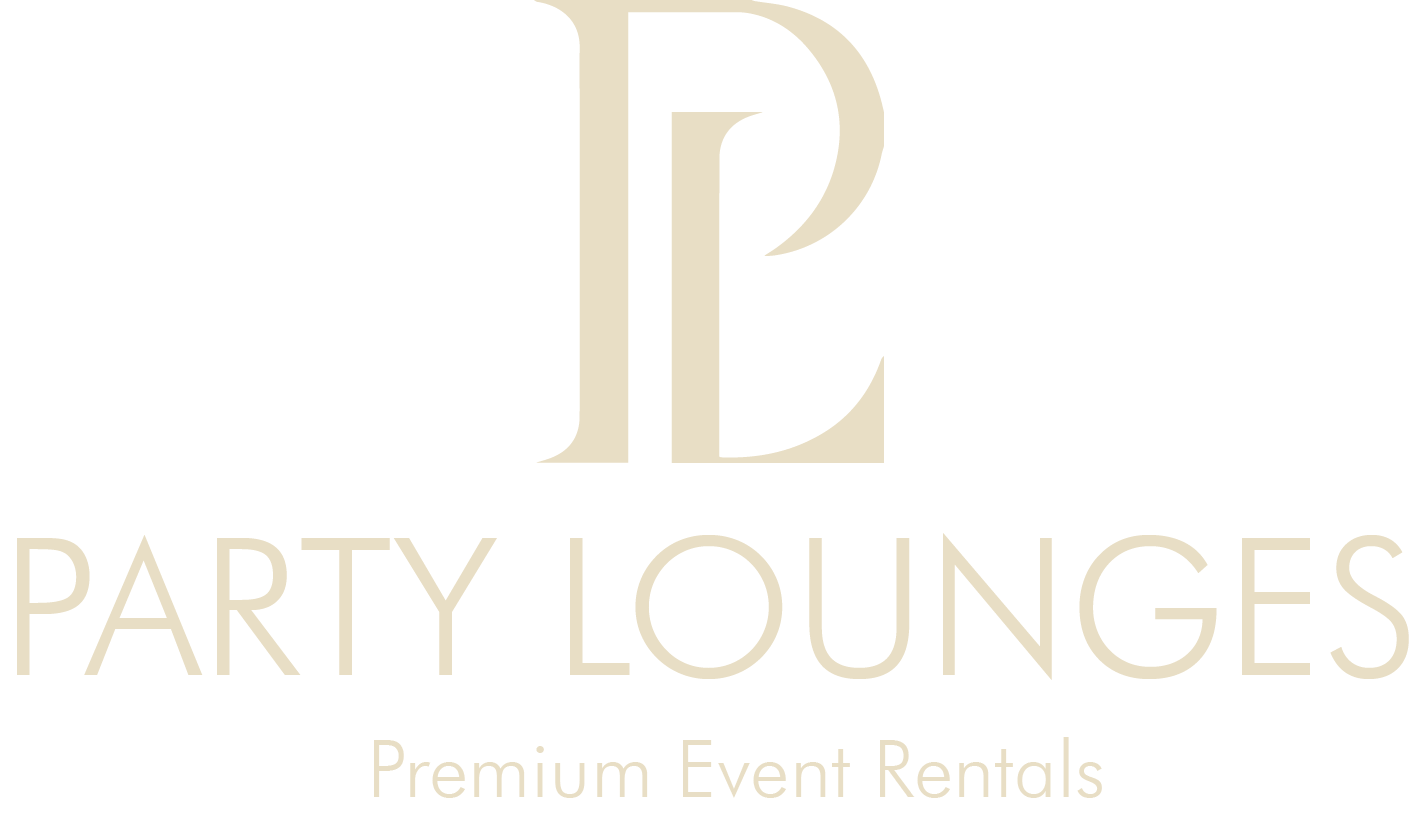
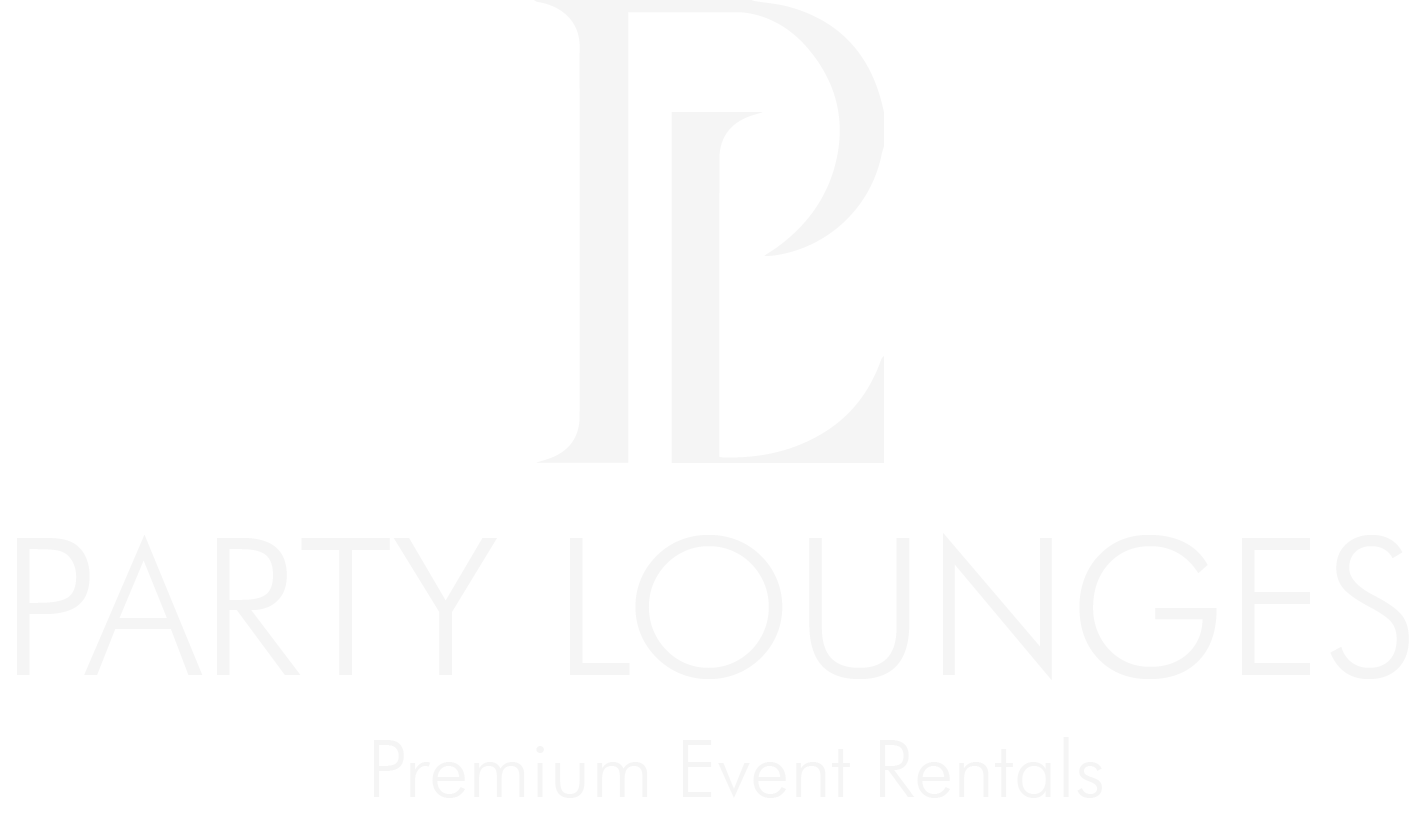
Update add new images for the Gallery page

diff --git a/index.html b/index.html
@@ -13,7 +13,7 @@
     <!-- Open Graph (For Social Media) -->
     <meta property="og:title" content="Party Lounges - Event Rentals & Full-Service Event Management" />
     <meta property="og:description" content="Premium event rentals and full-service event planning. We specialize in corporate events, private parties, and large-scale event management." />
-    <meta property="og:image" content="/partylounges-1.jpg" />
+    <meta property="og:image" content="/partylounges.png" />
     <meta property="og:url" content="https://partylounges.com/" />
     <meta property="og:type" content="website" />
 
@@ -21,9 +21,9 @@
     <meta name="twitter:card" content="summary_large_image" />
     <meta name="twitter:title" content="Party Lounges - Event Planning & Management" />
     <meta name="twitter:description" content="We provide premium event rentals and full-service event planning for corporate and private parties." />
-    <meta name="twitter:image" content="/partylounges-1.jpg" />
+    <meta name="twitter:image" content="/partylounges.png" />
 
-    <link rel="icon" type="image/png" href="/partylounges-1.jpg" />
+    <link rel="icon" type="image/png" href="/partylounges.png" />
     <title>Party Lounges</title>
 
     <!-- Font Awesome & Google Fonts -->
